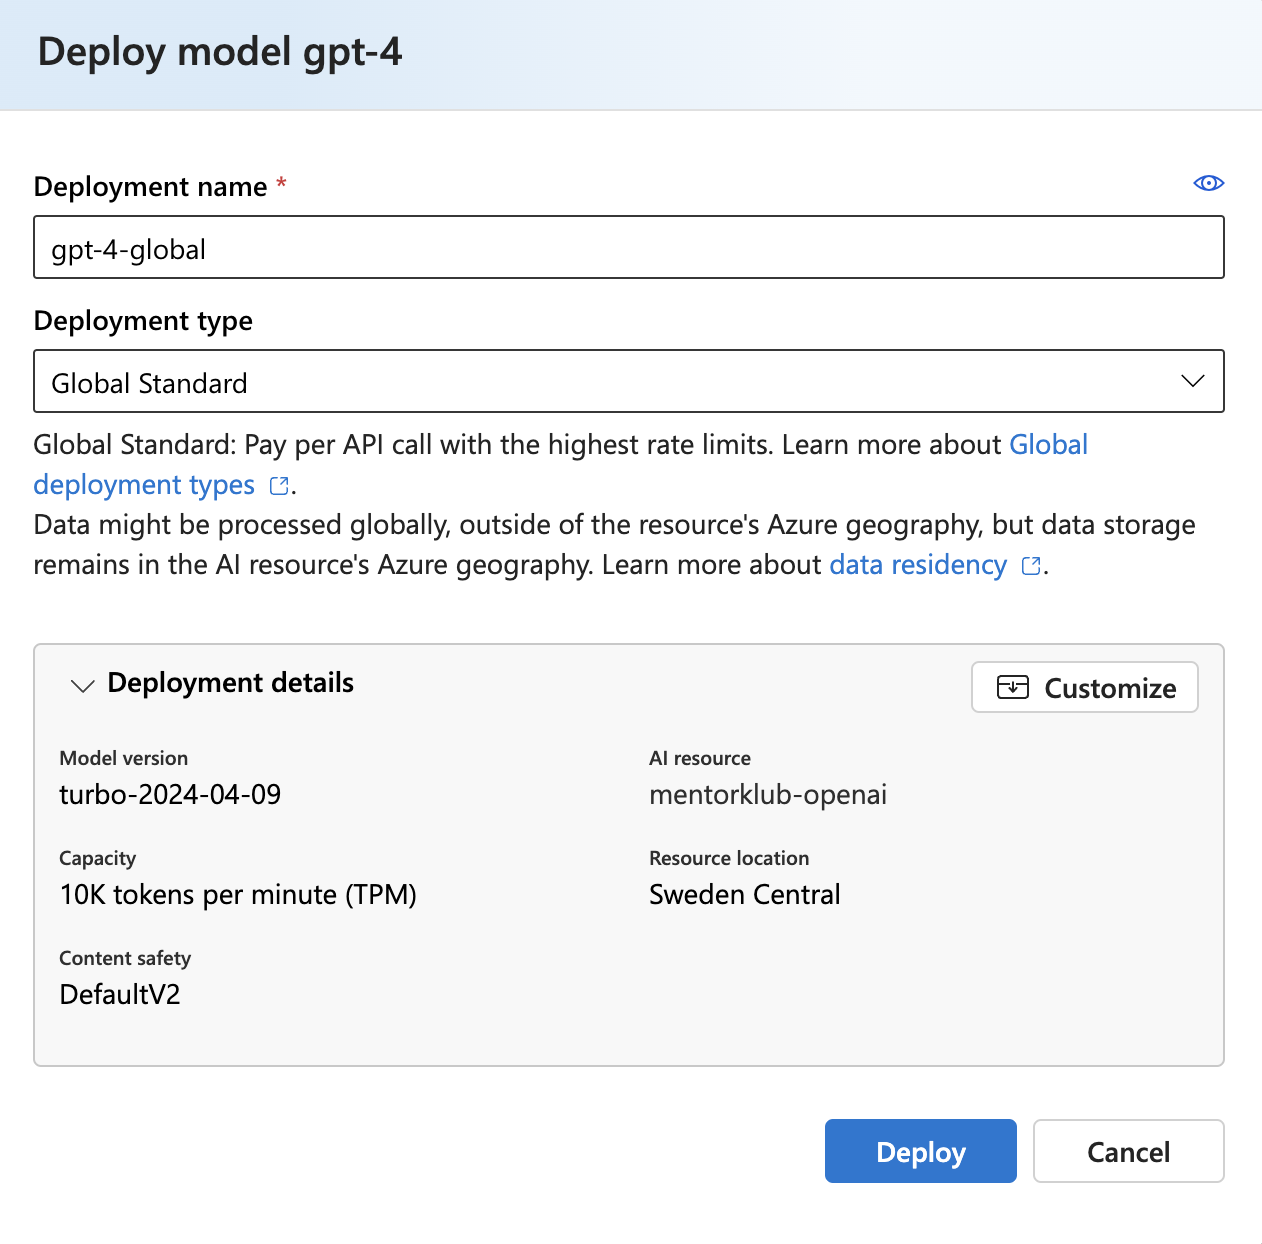
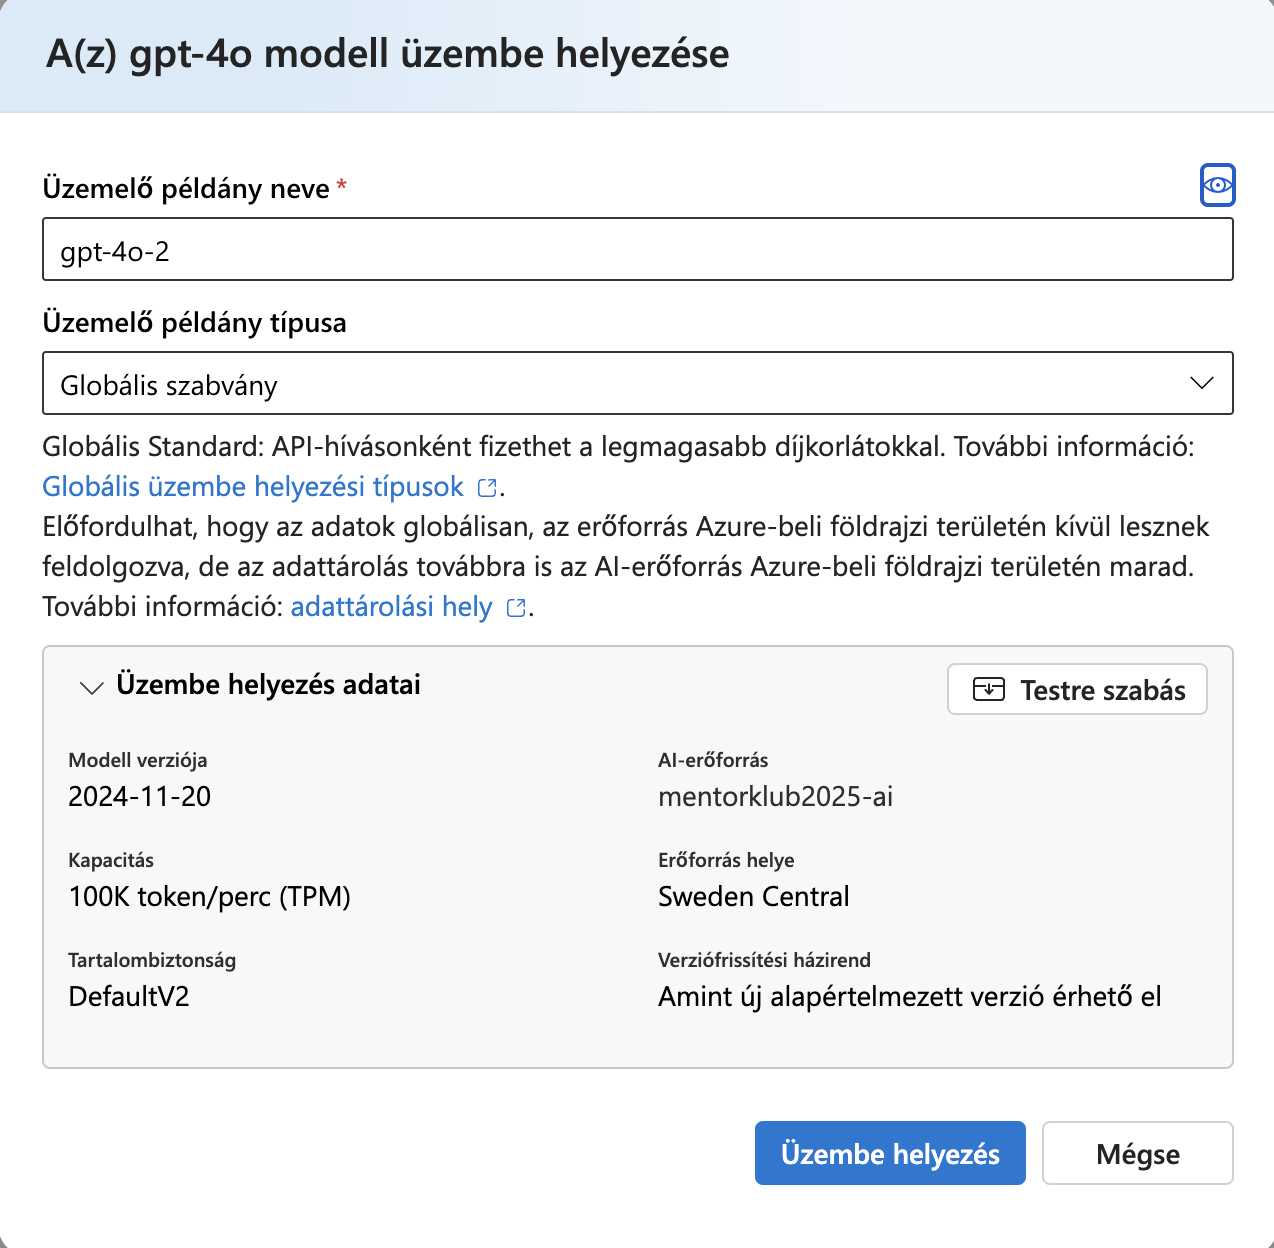
Frissítés

diff --git a/README.md b/README.md
@@ -33,23 +33,31 @@ Ezen szolgáltatások segítségével a fejlesztők képesek lehetnek például 
 
 Azure-ban a legegyszerűbb eszközünk, ahol el tudjuk kezdeni, az [Azure OpenAI Studio](https://oai.azure.com/).
 
-Itt egy egyszerű regisztrációt követően már el is kezdhetjük az AI modellek fejlesztését. Az Azure OpenAI Studio egy teljesen ingyenes eszköz, amely lehetővé teszi a fejlesztők számára, hogy könnyedén készítsenek és teszteljenek AI modelleket.
+Az Azure OpenAI Studio egy olyan felhőalapú szolgáltatás, amely lehetővé teszi a fejlesztők számára, hogy könnyedén integrálják az AI-t a saját alkalmazásaikba. Az Azure OpenAI Studio szolgáltatások.
 
-Itt találjuk a különböző modelleket, amelyeket az Azure Cognitive Services nyújt. Az egyes modellek használatához csak egy kattintásra van szükség, és már használhatjuk is azokat.
+Ez az Azure AI Foundry része, amely egy olyan platform, amely lehetővé teszi a cégek számára, hogy könnyedén integrálják az AI-t a saját alkalmazásaikba. Itt találunk nagy nyelvi modelleket (LLM) és egyéb AI eszközöket, amelyek segítségével a fejlesztők képesek lehetnek például beszéd- és képfelismerésre, valamint gépi tanulásra alapozott alkalmazásokat készíteni.
+
+A teljes felület már magyarul is elérhető, így könnyedén navigálhatunk rajta.
+
+Itt néhány egyszerű beállítást követően már el is kezdhetjük az AI modellek fejlesztését. Az Azure OpenAI Studio egy teljesen ingyenes eszköz, amely lehetővé teszi a fejlesztők számára, hogy könnyedén készítsenek és teszteljenek AI modelleket.
+
+Megjegyzés: Az AI stúdióban hasznélt erőforrások és szolgáltatások naghyrésze fizetsetős, így figyeljün kazok áraira és használatára.
+
+Tehát az Azure OpenAI Studio-ban találjuk a különböző OpenAI modelleket, amelyeket az Azure Cognitive Services nyújt. Az egyes modellek használatához csak egy kattintásra van szükség, és már használhatjuk is azokat.
 
 Ahhoz, hogy ezeket a modelleket használni tudjiuk, létre kell hoznunk egy Deployment-et. Ezt a Deployment-et aztán egy API-n keresztül tudjuk elérni, és használni a kiválasztott modelleket.
 
-### Deployment létrehozása
+### Deployment (üzemelő példányok) létrehozása
 
-1. Az Azure OpenAI Studio-ban kattintsunk a Deployment menüpontra.
-2. Kattintsunk a **+ Deploy model**, majd a **Deploy base model** gombra.
-3. Válasszuk ki a kívánt modelt (pl.: gpt-4), majd kattintsunk a **Confirm** gombra.
+1. Az Azure OpenAI Studio-ban kattintsunk a Üzemelő példányok menüpontra.
+2. Kattintsunk a **+ Modell üzembe helyezése**, majd a **Alapmodell üzembe helyezése** gombra.
+3. Válasszuk ki a kívánt modelt (pl.: gpt-4o), majd kattintsunk a **Megerősítése** gombra.
 
 ![Deployment létrehozása 1](./images/deploy-model.png)
 
 4. Adjunk neki egy nevet.
 5. Állítsuk be az egyéb paramétereket.
-6. Kattintsunk a **Deploy** gombra.
+6. Kattintsunk a **Üzembe helyezés** gombra.
 
 ![Deployment létrehozása 2](./images/create-deployment.png)
 
@@ -62,7 +70,7 @@ Ha van egy Deploymentünk, akkor már használhatjuk is az adott modelt. Az Azur
 Ez így használhatjuk:
 
 1. Az Azure OpenAI Studio-ban kattintsunk a Chat menüpontra.
-2. Jobb oldalon, a **Deployment** részben válasszuk ki a Deploymentet.
+2. Jobb oldalon, a **Üzembe helyezés** részben válasszuk ki a a modellt.
 3. A képernyő közepén lévő chat ablakban írjuk be a kérdéseinket.
 
 ![Chat játszótér](./images/chat-playground.png)
@@ -144,42 +152,82 @@ Ehhez az alábbi erőforrások szükségesek:
 ### 4. Saját adatforrás használata Chatbothoz Azure OpenAI Studio-ban
 
 1. Lépjünk be az Azure OpenAI Studio-ba.
-2. Kattintsunk a **Chat** menüpontra.
-3. A jobb oldalon, a **Configuration** részben válasszuk ki a Deploymentet.
-4. A bal olalon, a **Setup** részben válasszuk ki a **Add your data** lehetőséget.
-5. Kattintsunk az **Add a data source** gombra.
+2. Kattintsunk a **Csevegés** menüpontra.
+3. A jobb oldalon, a **Beállítás** részben válasszuk ki a Modellt.
+4. A bal olalon, a **Beállítás** részben válasszuk ki a **Saját adatok hozzáadása** lehetőséget.
+5. Kattintsunk az **Adatforrás hozzáadása** gombra.
 6. Select a data source: **Azure Blob Storage**
 7. Blob storage account: Válasszuk ki az előbb létrehozott tárfiókunkat.
 8. Container: Válasszuk ki az `ai-forras` tárolót.
 9. Azure AI Search-nél válasszuk ki a **mentor-ai-search**-t.
 10. Enter the index name: dokumentum
-11. Kattintsunk a **Next** gombra.
-12. Kattintsunk a **Next** gombra.
-13. A **Azure resource authentication type** résznél válasszuk az **API Key** lehetőséget.
-14. Kattintsunk a **Next** gombra.
-15. Várjuk meg amíg a beállítások ellenőrzésre kerülnek.
-16. Összegző képernyőn kattintsunk a **Save and close** gombra.
-17. Pár perc múlva az adatforrásunk elérhető lesz a Chatben.
+11. Indexelő ütemezése: **Hourly**
+12. Vektor keresés hozzáadása ehhez a keresési erőforráshoz:
+
+- **Igen**
+- Modell beágyazása: **text-embedding-ada-002**
+
+13. Kattintsunk a **Következő** gombra.
+14. Keresés típusa: **Vektor**
+15. Válasszon méretet: **1024**
+16. Kattintsunk a **Következő** gombra.
+17. A **Azure-erőforrás hitelesítésének típusa** résznél válasszuk az **API Key** lehetőséget.
+18. Kattintsunk a **Következő** gombra.
+19. Várjuk meg amíg a beállítások ellenőrzésre kerülnek.
+20. Összegző képernyőn kattintsunk a **Mentés és bezárás** gombra.
+21. Pár perc múlva az adatforrásunk elérhető lesz a Chatben.
 
 ### 5. Webalkalmazás létrehozása Chatbothoz Azure-ban
 
-1. Az előző pontban létrehozott Chat játszótérben kattintsunk a **Deploy** gombra.
-2. Válasszuk a **...as a web app** lehetőséget.
+1. Az előző pontban létrehozott Chat játszótérben kattintsunk a **Üzembe helyezés** gombra.
+2. Válasszuk a **...webalkalmazásként** lehetőséget.
 3. Töltsük ki a szükséges mezőket.
    - Name: mentor-chatbot
    - Subscription: Válasszuk ki a megfelelő előfizetésünket.
    - Resource group: Válasszuk ki a megfelelő erőforrás csoportunkat.
    - Location: Válasszuk ki a megfelelő régiót.
    - Pricing plan: B1
-   - Enable chat history in the web app: Igen
-4. Kattintsunk a **Deploy** gombra.
-5. Ha elkészült, nyissuk meg.
-6. Emngedélyezzük a hozzásférést a **Permissions requested** ablakban at **Accept** gombra kattintva,
-7. Kezdjünk el beszélgetni az AI-val.
+   - Csevegési előzmények engedélyezése a webalkalmazásban: Igen (Ekkor egy Cosmos DB is létrejön a háttérben, amelyben tárolni fogjuk a csevegési előzményeket. - Ez költséges lehet, így ha nem szeretnénk, akkor válasszuk a **Nem** lehetőséget.)
+4. Kattintsunk a **Üzembe helyezés** gombra. (nagyjából 10-15 perc alatt elkészül)
+   ![Webalkalmazás üzembe helyezése](./images/webalkalmazas-deploy.png)
+
+### 6. Felhasználói azonosítás beállítása
+
+Amíg a webalkalmazásunk készül, addig beállíthatjuk a felhasználói azonosítást. Ez azért fontos, mert így csak azok férhetnek hozzá a webalkalmazásunkhoz, akiknek engedélyeztük.
+
+1. Lépjünk be az Azure Portalba.
+2. Kattintsunk a **Webalkalmazások** menüpontra.
+3. Kattintsunk a **mentor-chatbot** webalkalmazásunkra.
+4. A bal oldalon válasszuk a **Beállítások** menüpontot.
+5. Kattintsunk a **Hitelesítés** menüpontra.
+6. Kattintsunk a **Identitásszolgáltató hozzáadása** gombra.
+7. Válasszuk ki a **Microsoft** lehetőséget.
+8. Itt az alábbi beállításokat kell megadnunk:
+   - Munkaerő-konfiguráció (aktuális bérlő) Alkalmazottak és üzleti vendégek kezelése
+   - Alkalmazásregisztráció típusa: **Adja meg egy meglévő alkalmazás-regisztráció részleteit**
+   - Client ID: Adjuk meg a megfeleő alkalmazás Client ID-ját.
+   - Client Secret: Adjuk meg a megfeleő alkalmazás Client Secret-jét.
+   - Kiállító URL-címe: https://sts.windows.net/{tenant id}/v2.0
+   - Ügyfélalkalmazási követelmény: Csak magából az alkalmazásból érkező kérelmek engedélyezése
+   - Identitáskövetelmény: Bármely identitásból érkező kérelmek engedélyezése
+   - Bérlői követelmény: Csak a kibocsátó bérlőről érkező kérelmek engedélyezése
+   - Hozzáférés korlátozása: Hitelesítés megkövetelése
+   - Nem hitelesített kérelmek: HTTP 302 Found átirányítása: webhelyek esetén ajánlott
+   - Jogkivonat-tároló: Igen
+9. Kattintsunk a **Következő: Engedélyek** gombra.
+
+### 7. Alkalmazás tesztelése
+
+1. Lépjünk be az Azure Portalba.
+2. Kattintsunk a **Webalkalmazások** menüpontra.
+3. Kattintsunk a **mentor-chatbot** webalkalmazásunkra.
+4. Kattintsunk a **Webalkalmazás URL** linkre.
+5. A megnyíló ablakban kattintsunk a **Sign in with Microsoft** gombra.
+6. Kezdjünk el beszélgetni az AI-val.
 
 ![AI Chat Webapp](./images/ai-chat-webapp.png)
 
-### 6. Példa kérdések 'prompt'
+### 8. Példa kérdések 'prompt'
 
 1. Ma már minden a mesterséges intelligenciáról (AI) szól: Mit jelent ez számunkra?
 2. Hogyan telepítek NodeJs 20-at Linuxra?
